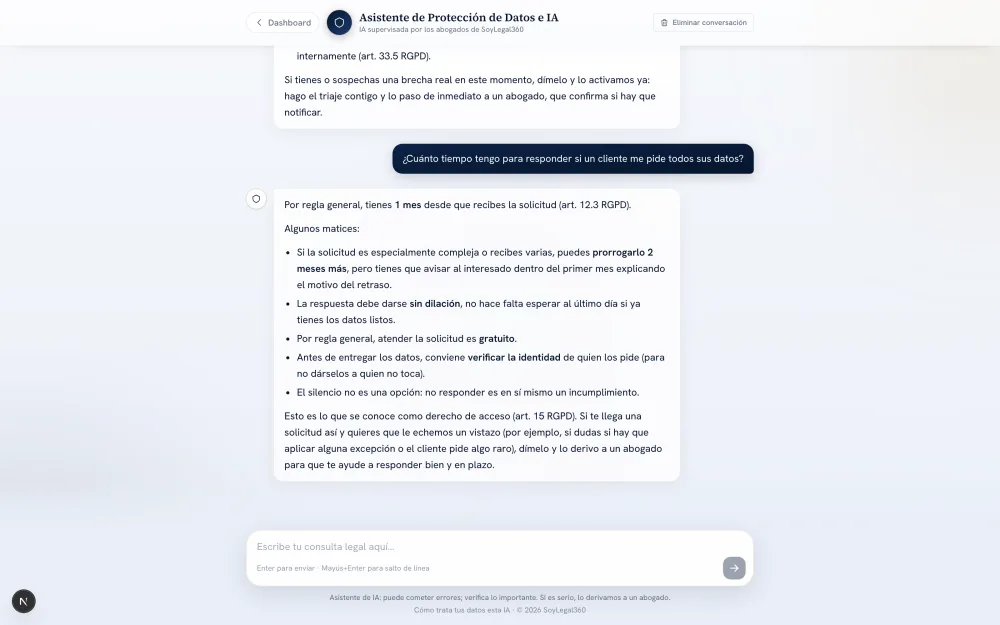
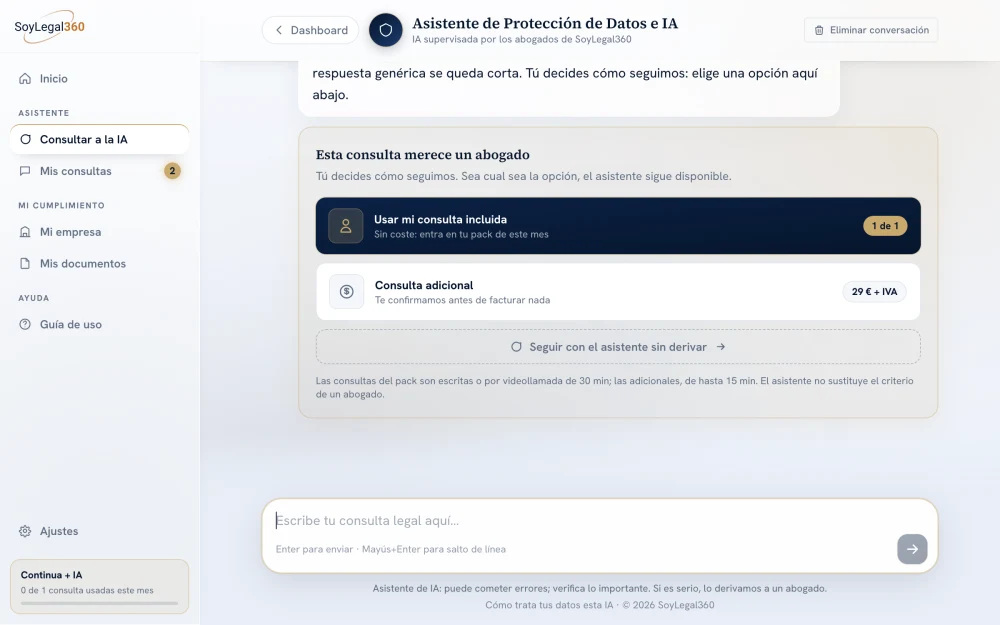
feat(capturas): area de clientes actualizada (menu lateral, tarjeta de decision, conexiones IA) y cache v=3

diff --git a/area-de-clientes/index.html b/area-de-clientes/index.html
@@ -337,7 +337,7 @@
             <p class="sl-area-quote">Si algo es serio, no te deja solo: <b>te lo deriva a un abogado</b> con un clic.</p>
           </div>
           <div class="sl-area-row__media">
-            <img src="/assets/img/sl-app-chat.webp?v=2" width="1000" height="625" alt="El asistente respondiendo una duda sobre el derecho de acceso citando el artículo 12 del RGPD" loading="lazy">
+            <img src="/assets/img/sl-app-chat.webp?v=3" width="1000" height="625" alt="El asistente respondiendo una duda sobre el derecho de acceso citando el artículo 12 del RGPD" loading="lazy">
           </div>
         </article>
 
@@ -348,7 +348,7 @@
             <p>Tu pack incluye <strong>consultas con abogado cada mes</strong>. Las planteas desde tu área y eliges el formato: respuesta por escrito o videollamada de 30 minutos. Todo queda en su hilo: la pregunta, la respuesta y los documentos que salgan de ella.</p>
           </div>
           <div class="sl-area-row__media">
-            <img src="/assets/img/sl-app-consultas.webp?v=2" width="1000" height="625" alt="Consulta respondida por un abogado de SoyLegal360 sobre un encargo de tratamiento" loading="lazy">
+            <img src="/assets/img/sl-app-consultas.webp?v=3" width="1000" height="625" alt="Consulta respondida por un abogado de SoyLegal360 sobre un encargo de tratamiento" loading="lazy">
           </div>
         </article>
 
@@ -359,7 +359,7 @@
             <p>Tu RAT, tus políticas y la ficha de tu empresa, <strong>siempre en su última versión</strong>, centralizado en un solo sitio cifrado. Se acabó el cumplimiento repartido por correos y carpetas.</p>
           </div>
           <div class="sl-area-row__media">
-            <img src="/assets/img/sl-app-documentos.webp?v=2" width="1000" height="625" alt="Sección Mis documentos con el RAT, la política de privacidad y la de cookies" loading="lazy">
+            <img src="/assets/img/sl-app-documentos.webp?v=3" width="1000" height="625" alt="Sección Mis documentos con el RAT, la política de privacidad y la de cookies" loading="lazy">
           </div>
         </article>
 
@@ -370,7 +370,7 @@
             <p>El área funciona igual de bien en el móvil: entras con tu enlace de acceso, preguntas al asistente o revisas tu estado de cumplimiento <strong>desde la obra, la tienda o la consulta</strong>. Sin instalar nada.</p>
           </div>
           <div class="sl-area-row__media sl-area-row__media--phone">
-            <img src="/assets/img/sl-app-movil.webp" width="332" height="720" alt="El área de clientes en un móvil: dashboard con el asistente y el estado de cumplimiento" loading="lazy">
+            <img src="/assets/img/sl-app-movil.webp?v=3" width="332" height="720" alt="El área de clientes en un móvil: dashboard con el asistente y el estado de cumplimiento" loading="lazy">
           </div>
         </article>
 

diff --git a/index.html b/index.html
@@ -1686,15 +1686,15 @@
       <p class="sl-vid-ai">Vídeo promocional creado con IA</p>
       <div class="sl-app-shots">
         <figure>
-          <img src="/assets/img/sl-app-chat.webp?v=2" width="1000" height="625" alt="Conversación real con el asistente citando el artículo 12 del RGPD, verificado por abogados" loading="lazy">
+          <img src="/assets/img/sl-app-chat.webp?v=3" width="1000" height="625" alt="Conversación real con el asistente citando el artículo 12 del RGPD, verificado por abogados" loading="lazy">
           <figcaption>Cita solo lo verificado, nunca «de memoria»</figcaption>
         </figure>
         <figure>
-          <img src="/assets/img/sl-app-consultas.webp?v=2" width="1000" height="625" alt="Hilo de Mis consultas con la respuesta de un abogado de SoyLegal360" loading="lazy">
+          <img src="/assets/img/sl-app-consultas.webp?v=3" width="1000" height="625" alt="Hilo de Mis consultas con la respuesta de un abogado de SoyLegal360" loading="lazy">
           <figcaption>Cuando importa, responde un abogado de verdad</figcaption>
         </figure>
         <figure>
-          <img src="/assets/img/sl-app-documentos.webp?v=2" width="1000" height="625" alt="Mis documentos: RAT, política de privacidad y política de cookies" loading="lazy">
+          <img src="/assets/img/sl-app-documentos.webp?v=3" width="1000" height="625" alt="Mis documentos: RAT, política de privacidad y política de cookies" loading="lazy">
           <figcaption>Tu documentación legal, siempre a mano</figcaption>
         </figure>
       </div>

diff --git a/proteccion-legal-continua/index.html b/proteccion-legal-continua/index.html
@@ -526,15 +526,15 @@
       <p class="sl-vid-ai">Vídeo promocional creado con IA</p>
       <div class="sl-app-shots">
         <figure>
-          <img src="/assets/img/sl-app-chat.webp?v=2" width="1000" height="625" alt="Conversación real con el asistente citando el artículo 12 del RGPD, verificado por abogados" loading="lazy">
+          <img src="/assets/img/sl-app-chat.webp?v=3" width="1000" height="625" alt="Conversación real con el asistente citando el artículo 12 del RGPD, verificado por abogados" loading="lazy">
           <figcaption>Cita solo lo verificado, nunca «de memoria»</figcaption>
         </figure>
         <figure>
-          <img src="/assets/img/sl-app-consultas.webp?v=2" width="1000" height="625" alt="Hilo de Mis consultas con la respuesta de un abogado de SoyLegal360" loading="lazy">
+          <img src="/assets/img/sl-app-consultas.webp?v=3" width="1000" height="625" alt="Hilo de Mis consultas con la respuesta de un abogado de SoyLegal360" loading="lazy">
           <figcaption>Cuando importa, responde un abogado de verdad</figcaption>
         </figure>
         <figure>
-          <img src="/assets/img/sl-app-documentos.webp?v=2" width="1000" height="625" alt="Mis documentos: RAT, política de privacidad y política de cookies" loading="lazy">
+          <img src="/assets/img/sl-app-documentos.webp?v=3" width="1000" height="625" alt="Mis documentos: RAT, política de privacidad y política de cookies" loading="lazy">
           <figcaption>Tu documentación legal, siempre a mano</figcaption>
         </figure>
       </div>

diff --git a/adaptacion-empresa-rgpd/index.html b/adaptacion-empresa-rgpd/index.html
@@ -1799,7 +1799,7 @@
         </div>
       </div>
       <div class="sl-app-mini__media">
-        <img src="/assets/img/sl-app-dashboard.webp" width="1000" height="625" alt="Dashboard del área de clientes de SoyLegal360" loading="lazy">
+        <img src="/assets/img/sl-app-dashboard.webp?v=3" width="1000" height="625" alt="Dashboard del área de clientes de SoyLegal360" loading="lazy">
       </div>
     </div>
   </section>

diff --git a/adaptacion-ia/index.html b/adaptacion-ia/index.html
@@ -352,7 +352,7 @@
         </div>
       </div>
       <div class="sl-app-mini__media">
-        <img src="/assets/img/sl-app-dashboard.webp" width="1000" height="625" alt="Dashboard del área de clientes de SoyLegal360" loading="lazy">
+        <img src="/assets/img/sl-app-dashboard.webp?v=3" width="1000" height="625" alt="Dashboard del área de clientes de SoyLegal360" loading="lazy">
       </div>
     </div>
   </section>

diff --git a/adaptacion-web-rgpd/index.html b/adaptacion-web-rgpd/index.html
@@ -449,7 +449,7 @@
         </div>
       </div>
       <div class="sl-app-mini__media">
-        <img src="/assets/img/sl-app-dashboard.webp" width="1000" height="625" alt="Dashboard del área de clientes de SoyLegal360" loading="lazy">
+        <img src="/assets/img/sl-app-dashboard.webp?v=3" width="1000" height="625" alt="Dashboard del área de clientes de SoyLegal360" loading="lazy">
       </div>
     </div>
   </section>

diff --git a/delegado-de-proteccion-de-datos-externalizado/index.html b/delegado-de-proteccion-de-datos-externalizado/index.html
@@ -603,7 +603,7 @@
         </div>
       </div>
       <div class="sl-app-mini__media">
-        <img src="/assets/img/sl-app-dashboard.webp" width="1000" height="625" alt="Dashboard del área de clientes de SoyLegal360" loading="lazy">
+        <img src="/assets/img/sl-app-dashboard.webp?v=3" width="1000" height="625" alt="Dashboard del área de clientes de SoyLegal360" loading="lazy">
       </div>
     </div>
   </section>
